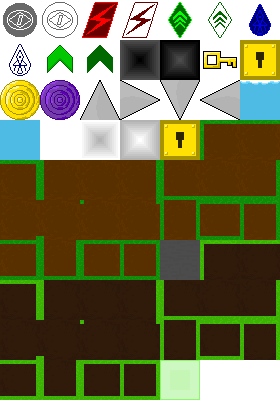
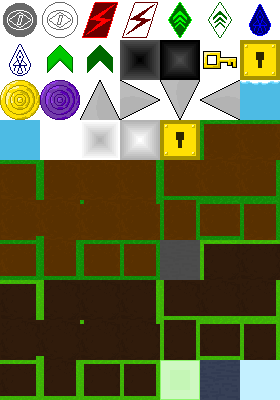
added blue stone and ice and saver

Changed region(s): [[0.7143, 0.9, 1.0, 1.0]]

diff --git a/src/CProjectile.cpp b/src/CProjectile.cpp
@@ -1,7 +1,7 @@
 #include "CProjectile.h"
 #include "Game.h"
 
-int numFrames[PROJECTILE_TOTAL] = {1, 1, 4, 4, 1, 1, 4, 1, 1};
+int numFrames[PROJECTILE_TOTAL] = {1, 1, 4, 4, 1, 1, 4, 1, 1, 1, 1};
 
 CProjectile::CProjectile(int x, int y, ProjectileTypes type, int velX, int velY, int respawnX, int respawnY)
 {
@@ -252,11 +252,18 @@ void CProjectile::projectileEvent()
             save.x = player->getSafePos().x;
             save.y = player->getSafePos().y;
             break;
+        case PROJECTILE_SAVER:
+            player->setSafePos(player->getBox().x, player->getBox().y);
+            break;
         case PROJECTILE_TEXTDISPLAYER:
             mDisplayText = true;
             break;
         case PROJECTILE_BOUNCEBLOCK:
             if (checkCollision(mCollisionBox, player->getBox())) player->setCustomForm(player->getPlayerVel() * 0.5, player->getJumpMax() * 1.414, player->getJumpMin() * 1.414, player->getGravity());
+            else player->setForm(player->getForm());
+            break;
+        case PROJECTILE_ICEBLOCK:
+            if (checkCollision(mCollisionBox, player->getBox())) player->setCustomForm(player->getPlayerVel() * 2, player->getJumpMax(), player->getJumpMin(), player->getGravity());
             else player->setForm(player->getForm());
             break;
     }

diff --git a/src/LSDL.h b/src/LSDL.h
@@ -72,6 +72,8 @@ enum Tiles {
     TILE_JUNGLE_INNER_BOTTOMRIGHT, TILE_JUNGLE_INNER_BOTTOMLEFT, TILE_JUNGLE_INNER_TOPLEFT, TILE_JUNGLE_INNER_TOPRIGHT,
     TILE_JUNGLE_DOUBLE_VERTICAL, TILE_JUNGLE_DOUBLE_HORIZONTAL, TILE_JUNGLE_TRIPLE_TOP, TILE_JUNGLE_TRIPLE_RIGHT, TILE_JUNGLE_TRIPLE_BOTTOM, TILE_JUNGLE_TRIPLE_LEFT, TILE_JUNGLE_QUADRUPLE,
     TILE_BOUNCE,
+    TILE_BLUESTONE,
+    TILE_ICE,
     TILE_TOTAL
 };
 
@@ -123,8 +125,10 @@ enum ProjectileTypes {
     PROJECTILE_BUTTON_TILECHANGE,
     PROJECTILE_BUTTON_TILETOGGLE,
     PROJECTILE_TELEPORTER,
+    PROJECTILE_SAVER,
     PROJECTILE_TEXTDISPLAYER,
     PROJECTILE_BOUNCEBLOCK,
+    PROJECTILE_ICEBLOCK,
     PROJECTILE_TOTAL
 };
 

diff --git a/src/CPlayer.h b/src/CPlayer.h
@@ -21,6 +21,7 @@ class CPlayer
         void setHealth(int health);
         void setShield(int shield);
         void setCharge(int charge);
+        void setSafePos(int safeX, int safeY);
         void setJumps(int jumps);
         void setKeys(int keys);
         void setPos(int x, int y);

diff --git a/src/CPlayer.cpp b/src/CPlayer.cpp
@@ -268,6 +268,10 @@ void CPlayer::setCharge(int charge)
 {
     mCharge = charge;
 }
+void CPlayer::setSafePos(int safeX, int safeY)
+{
+    mSafePos = {safeX, safeY};
+}
 void CPlayer::setJumps(int jumps)
 {
     mJumpsRemaining = jumps;
